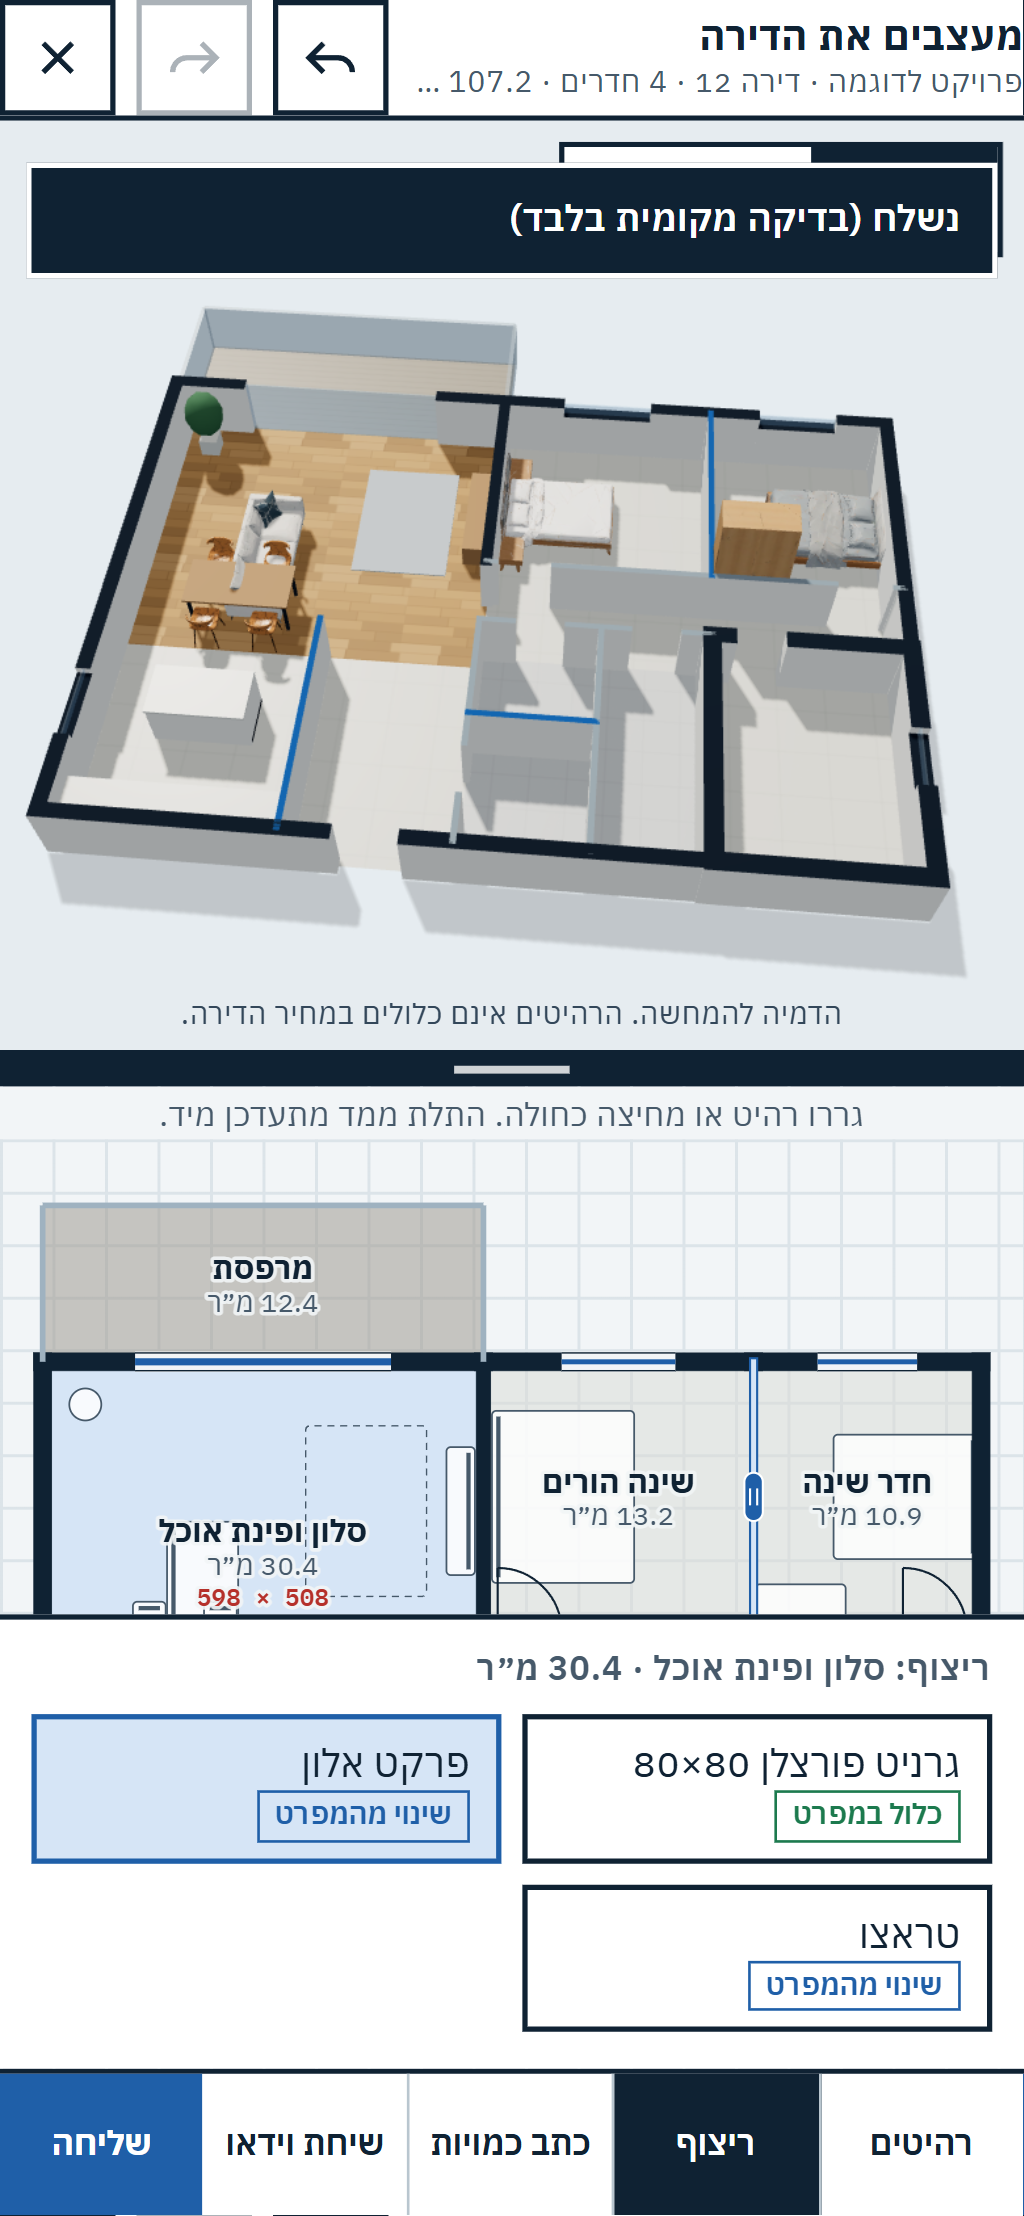
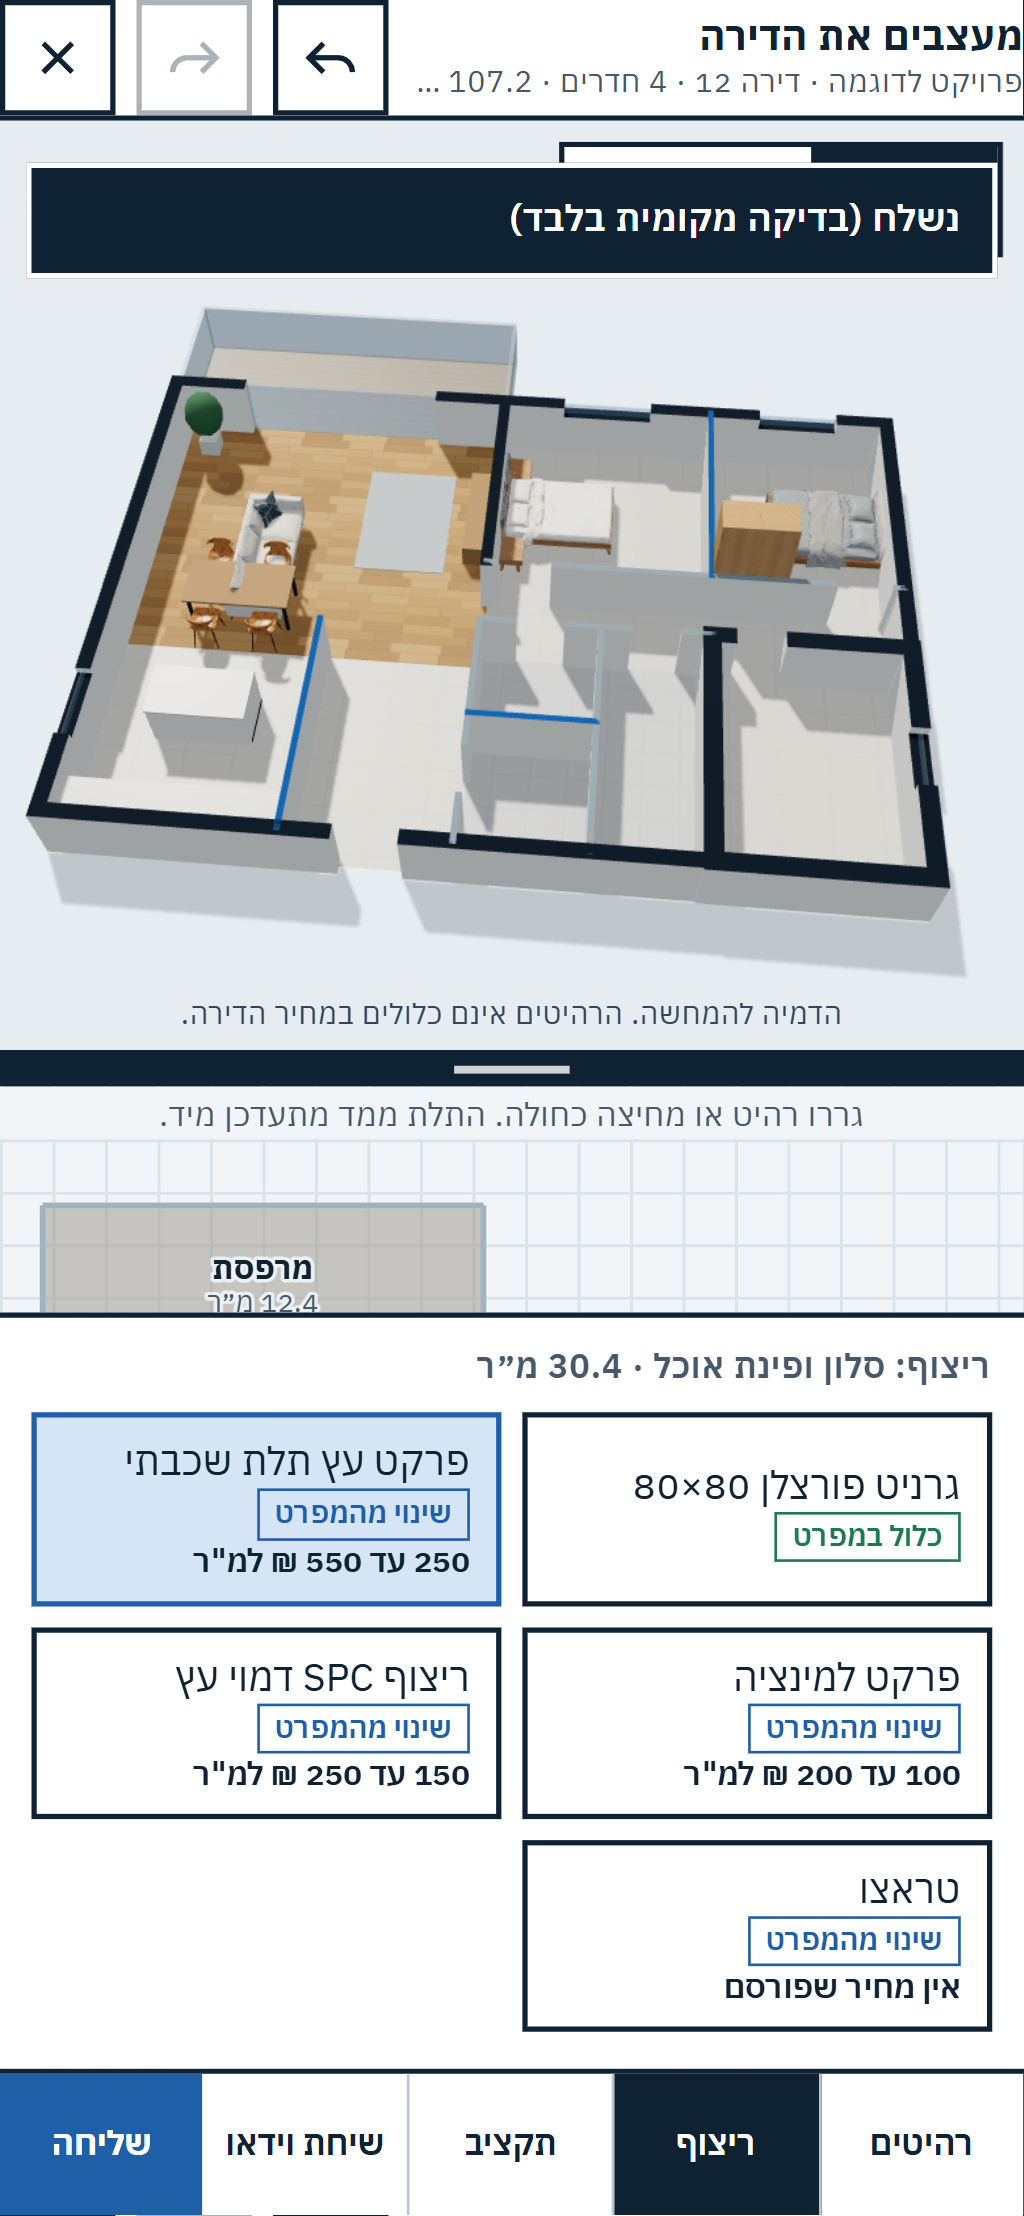
HAD-701: save and return on the device, start over, and the store pieces the shared call needs (pen guard, remote changes, load)
The design is kept in this browser per apartment layout and geometry revision, with no personal details; opening the
designer again continues from it; 'start over' returns the apartment as it was. core.js: setGuard() (only the pen holder
edits), remote changes are logged with their author and never enter the local undo stack, load() replaces the design
for a late joiner. Node proof 7 of 7; module check 13 of 13. Not wired to any page, not live.

Changed region(s): [[0.0, 0.5916, 1.0, 0.903], [0.4375, 0.9653, 0.5625, 0.9964], [0.3438, 0.218, 0.375, 0.2491]]

diff --git a/plugins/nadlan-config/assets/designer/designer.js b/plugins/nadlan-config/assets/designer/designer.js
@@ -25,9 +25,16 @@ function ensureFonts() { // a font must be declared in the document itself; a sh
 export async function mount(host, opts = {}) {
   const T = strings(opts.lang || 'he'), t0 = performance.now();
   const apt = opts.plan || (await (await fetch(opts.planUrl || BASE + 'plans/example-4r.json')).json());
-  const design = opts.design || emptyDesign(apt);
-  if (!opts.design) design.items = (apt.starter || catalog.STARTER).map((i) => ({ ...i }));
-  const store = createStore(apt, design);
+  const fresh = () => { const d = emptyDesign(apt); d.items = (apt.starter || catalog.STARTER).filter((i) => catalog.ITEMS[i.sku]).map((i) => ({ ...i })); return d; };
+  // the design is kept in THIS browser only, per apartment layout, with no personal details: come back and it is still here
+  const saveKey = opts.save === false ? null : 'nd-design:' + (apt.unit.project || '-') + ':' + (apt.unit.unit_id || apt.id) + ':' + apt.geometry_revision;
+  let restored = false, design = opts.design || null;
+  if (!design && saveKey) try {
+    const s = JSON.parse(localStorage.getItem(saveKey) || 'null');
+    if (s && s.schema === 'nadlan-unit-design' && s.v === 2 && s.geometry_revision === apt.geometry_revision && Array.isArray(s.items)) { s.items = s.items.filter((i) => catalog.ITEMS[i.sku]); design = s; restored = true; }
+  } catch (e) { /* storage blocked or an unreadable draft: start fresh */ }
+  let store;
+  try { store = createStore(apt, design || fresh()); } catch (e) { restored = false; store = createStore(apt, fresh()); }
   ensureFonts();
 
   const shadow = host.shadowRoot || host.attachShadow({ mode: 'open' });
@@ -124,7 +131,8 @@ export async function mount(host, opts = {}) {
       for (const r of q.rooms) html += '<tr><td>' + esc(r.name) + '</td><td class="n mono">' + r.w + '×' + r.d + '</td><td class="n mono">' + r.net.toFixed(1) + '</td></tr>';
       html += '</tbody></table><table style="margin-top:10px"><thead><tr><th>' + T.boqItems + '</th><th class="n">' + T.boqCount + '</th></tr></thead><tbody>';
       for (const k in q.items) html += '<tr><td>' + esc(catalog.ITEMS[k].he) + '</td><td class="n mono">' + q.items[k] + '</td></tr>';
-      el.insertAdjacentHTML('beforeend', html + '</tbody></table><p class="fine">' + T.boqFine + '</p>');
+      el.insertAdjacentHTML('beforeend', html + '</tbody></table><p class="fine">' + T.boqFine + '</p>' + (saveKey ? '<p class="fine">' + T.savedHere + '</p><button class="opt" data-nd="reset" style="margin-top:8px;width:100%">' + T.startOver + '</button>' : ''));
+      const rb = $('reset'); if (rb) rb.onclick = () => { store.load(fresh()); select(null); open(null); toast(T.startedOver); };
     }
   }
   const setMode = (m) => { if (!space) return; space.setMode(m); $('m-doll').setAttribute('aria-pressed', m === 'doll'); $('m-walk').setAttribute('aria-pressed', m === 'walk'); paintSel(); };
@@ -137,7 +145,9 @@ export async function mount(host, opts = {}) {
   if (opts.onClose) $('close').onclick = () => opts.onClose(api);
   if (opts.onCall) $('call').onclick = () => opts.onCall(api);
   if (opts.onSend) $('send').onclick = () => opts.onSend(api);
-  store.on((e) => { if (e.type !== 'change') return; head(); if (sheet) open(sheet, true); subs.forEach((f) => f(e)); });
+  let saveT = 0;
+  const saveNow = () => { if (!saveKey || !alive) return; try { const d = store.design; localStorage.setItem(saveKey, JSON.stringify({ ...d, log: d.log.slice(-200) })); timings.saved_at = Date.now(); } catch (e) { /* storage full or blocked: the design still works */ } };
+  store.on((e) => { if (e.type !== 'change') return; if (e.touched.all) { plan.setSelection(null); if (space) space.reload(); } head(); if (sheet) open(sheet, true); clearTimeout(saveT); saveT = setTimeout(saveNow, 400); subs.forEach((f) => f(e)); });
 
   // the divider between the two views: drag it, or use the arrow keys
   const wide = () => root.clientWidth >= 900;
@@ -158,9 +168,11 @@ export async function mount(host, opts = {}) {
     on: (f) => { subs.add(f); return () => subs.delete(f); },
     select, setMode, toast,
     ready3d: null,
-    destroy() { alive = false; if (space && space.destroy) space.destroy(); shadow.textContent = ''; subs.clear(); },
+    saveNow, restored,
+    destroy() { clearTimeout(saveT); saveNow(); alive = false; if (space && space.destroy) space.destroy(); shadow.textContent = ''; subs.clear(); },
   };
   head(); paintSel();
+  if (restored) toast(T.restored);
   // price ranges are a small separate file: the designer works without it and fills the prices in when it arrives
   api.readyPrices = fetch(BASE + 'data/price-ranges.json').then((r) => (r.ok ? r.json() : null)).then((d) => { if (d && alive) { prices = d.items; api.prices = prices; if (sheet) open(sheet, true); } return prices; }).catch(() => null);
   api.budget = () => estimate(store, catalog, prices);

diff --git a/plugins/nadlan-config/assets/designer/core.js b/plugins/nadlan-config/assets/designer/core.js
@@ -155,6 +155,7 @@ export function createStore(apt, design0) {
   let design = JSON.parse(JSON.stringify(design0 || emptyDesign(apt)));
   let dv = derive(apt, design);
   const subs = new Set(), undo = [], redo = [], slideCache = {};
+  let guard = null; // who may change the design right now (the shared call sets it: only the pen holder edits)
   const emit = (e) => subs.forEach((f) => f(e));
   const item = (id) => design.items.find((i) => i.id === id);
   const roomAt = (x, y) => { const f = dv.faces.find((q) => pip([x, y], q.poly)); return f ? f.id : null; };
@@ -199,19 +200,23 @@ export function createStore(apt, design0) {
   /** meta: { by, gesture, replay }. One drag is one gesture: one undo step and one line in the decision log. */
   function apply(op, meta = {}) {
     const t0 = typeof performance !== 'undefined' ? performance.now() : 0;
-    const err = check(op);
+    // meta.remote: a change that arrived from another person in the call: it is logged with its author, never put on MY undo stack,
+    // and never asked of the guard (the sender's side already was). meta.replay: my own undo or redo.
+    const err = (guard && !meta.remote ? guard(op, meta) : null) || check(op);
     if (err) { emit({ type: 'reject', op, ...err }); return { ok: false, ...err }; }
     const inv = inverse(op), touched = mutate(op);
     design.rev += 1;
-    if (!meta.replay) {
+    if (!meta.replay && !meta.remote) {
       const top = undo[undo.length - 1];
       if (meta.gesture && top && top.gesture === meta.gesture) top.redo = op;
       else { undo.push({ inv, redo: op, gesture: meta.gesture || null }); redo.length = 0; }
+    }
+    if (!meta.replay) {
       const last = design.log[design.log.length - 1], entry = { n: design.rev, t: new Date().toISOString(), by: meta.by || 'buyer', op };
       if (meta.gesture && last && last.gesture === meta.gesture) Object.assign(last, entry, { gesture: meta.gesture });
       else design.log.push({ ...entry, gesture: meta.gesture || null });
     }
-    emit({ type: 'change', op, touched, t0, by: meta.by || 'buyer' });
+    emit({ type: 'change', op, touched, t0, by: meta.by || 'buyer', remote: !!meta.remote, replay: !!meta.replay, gesture: meta.gesture || null });
     if (t0) api.lastApplyMs = performance.now() - t0; // the model change plus both views patching themselves
     return { ok: true };
   }
@@ -223,6 +228,10 @@ export function createStore(apt, design0) {
   }
   const api = {
     lastApplyMs: 0, apt, apply, check,
+    /** fn(op, meta) returns null to allow, or { code, reason } to refuse with one sentence the person reads */
+    setGuard(fn) { guard = fn || null; },
+    /** replaces the whole design (a saved design opened again, or the full design a late joiner of a call receives) */
+    load(next) { design = JSON.parse(JSON.stringify(next)); dv = derive(apt, design); undo.length = 0; redo.length = 0; emit({ type: 'change', op: { op: 'design.load' }, touched: { items: design.items.map((i) => i.id), finishes: ['*'], geometry: true, all: true }, t0: 0, by: 'load', remote: true, replay: false, gesture: null }); },
     get design() { return design; }, get derived() { return dv; },
     item, roomAt,
     slides: (id) => (id in slideCache ? slideCache[id] : (slideCache[id] = canSlide(apt, id))),

diff --git a/plugins/nadlan-config/assets/designer/strings.js b/plugins/nadlan-config/assets/designer/strings.js
@@ -14,6 +14,7 @@ export const STRINGS = {
     base: 'כלול במפרט', upgrade: 'שינוי מהמפרט', decor: 'לא כלול במחיר הדירה',
     boqHead: 'כתב כמויות: מחושב מאותה תוכנית, מתעדכן עם כל שינוי.', boqFloor: 'ריצוף', boqArea: 'שטח', boqRoom: 'חדר', boqSize: 'מידות נטו', boqItems: 'רהיטים להמחשה (לא כלולים)', boqCount: 'כמות',
     boqFine: 'שטחים בקירוב, נמדדים בין הקירות.',
+    restored: 'המשכנו מהעיצוב ששמרתם במכשיר הזה.', savedHere: 'העיצוב נשמר במכשיר הזה בלבד, בלי פרטים אישיים.', startOver: 'התחלה מחדש', startedOver: 'חזרנו לדירה כפי שהייתה.',
     to: ' עד ', andUp: ' ומעלה', shekel: '₪', rough: 'הערכה גסה', noPrice: 'אין מחיר שפורסם',
     budHead: 'תקציב משוער', budWhat: 'ריהוט ושינויי ריצוף, לפי טווחי מחירים שפורסמו בישראל. נבדק בנובמבר 2026.',
     budFine: 'זו הערכה ולא הצעת מחיר. המחירים הם מחירים לצרכן כפי שפורסמו; לא תמיד צוין אם הם כוללים מע״מ, הובלה או התקנה.',
@@ -34,6 +35,7 @@ export const STRINGS = {
     base: 'In the specification', upgrade: 'A change from the specification', decor: 'Not included in the apartment price',
     boqHead: 'Bill of quantities: computed from the same plan, updated with every change.', boqFloor: 'Flooring', boqArea: 'Area', boqRoom: 'Room', boqSize: 'Clear size', boqItems: 'Furniture for illustration (not included)', boqCount: 'Count',
     boqFine: 'Approximate areas, measured between the walls.',
+    restored: 'We continued from the design saved on this device.', savedHere: 'The design is saved on this device only, with no personal details.', startOver: 'Start over', startedOver: 'Back to the apartment as it was.',
     to: ' to ', andUp: ' and up', shekel: '₪', rough: 'rough estimate', noPrice: 'no published price',
     budHead: 'Estimated budget', budWhat: 'Furniture and flooring changes, from price ranges published in Israel. Read in November 2026.',
     budFine: 'An estimate, not a quote. Consumer prices as published; pages do not always say whether VAT, delivery or fitting are included.',

diff --git a/plugins/nadlan-config/assets/designer/space.js b/plugins/nadlan-config/assets/designer/space.js
@@ -246,8 +246,10 @@ export function mountSpace(host, store, cat, hooks = {}) {
     if (k !== lastCam) { lastCam = k; hooks.camera && hooks.camera(v); }
   }
 
+  const reload = () => { for (const id of [...itemObj.keys()]) { const g = itemObj.get(id); gItem.remove(g); itemObj.delete(id); } buildWalls(); buildFloors(); for (const it of store.design.items) syncItem(it.id); showSel(); touch(); };
   store.on((e) => {
     if (e.type !== 'change') return;
+    if (e.touched.all) { reload(); return; }
     if (pending == null) pending = e.t0;
     if (e.touched.geometry) { buildWalls(); buildFloors(); }
     if (e.touched.finishes.length) showSel();
@@ -266,7 +268,7 @@ export function mountSpace(host, store, cat, hooks = {}) {
     screenOf(x, y, h = 0) { const v = new THREE.Vector3(x * M, h * M, y * M).project(camera), r = renderer.domElement.getBoundingClientRect(); return [r.left + ((v.x + 1) / 2) * r.width, r.top + ((1 - v.y) / 2) * r.height]; },
     placed(id) { const g = itemObj.get(id); return g ? [Math.round(g.position.x / M), Math.round(g.position.z / M), Math.round((-g.rotation.y * 180) / Math.PI)] : null; },
     floorKey(room) { const f = gFloor.children.find((c) => c.userData.room === room); return f ? Object.keys(mat.floors).find((k) => mat.floors[k] === f.material) : null; },
-    renders, useModels,
+    renders, useModels, reload,
     modelState: (id) => (itemObj.get(id) ? itemObj.get(id).userData.model || 'box' : null),
     destroy() { dead = true; ro.disconnect(); controls.dispose(); scene.traverse((o) => { if (o.geometry) o.geometry.dispose(); }); renderer.dispose(); renderer.domElement.remove(); },
     /** turns the camera around the apartment for ms and returns the time between frames (the device's real frame rate) */

diff --git a/plugins/nadlan-config/assets/designer/plan.js b/plugins/nadlan-config/assets/designer/plan.js
@@ -130,6 +130,7 @@ export function mountPlan(host, store, cat, hooks = {}) {
 
   store.on((e) => {
     if (e.type !== 'change') return;
+    if (e.touched.all) { drawGeometry(); drawItems(); return; }
     if (e.touched.geometry || e.touched.finishes.length) drawGeometry();
     for (const id of e.touched.items) drawItem(id);
   });
